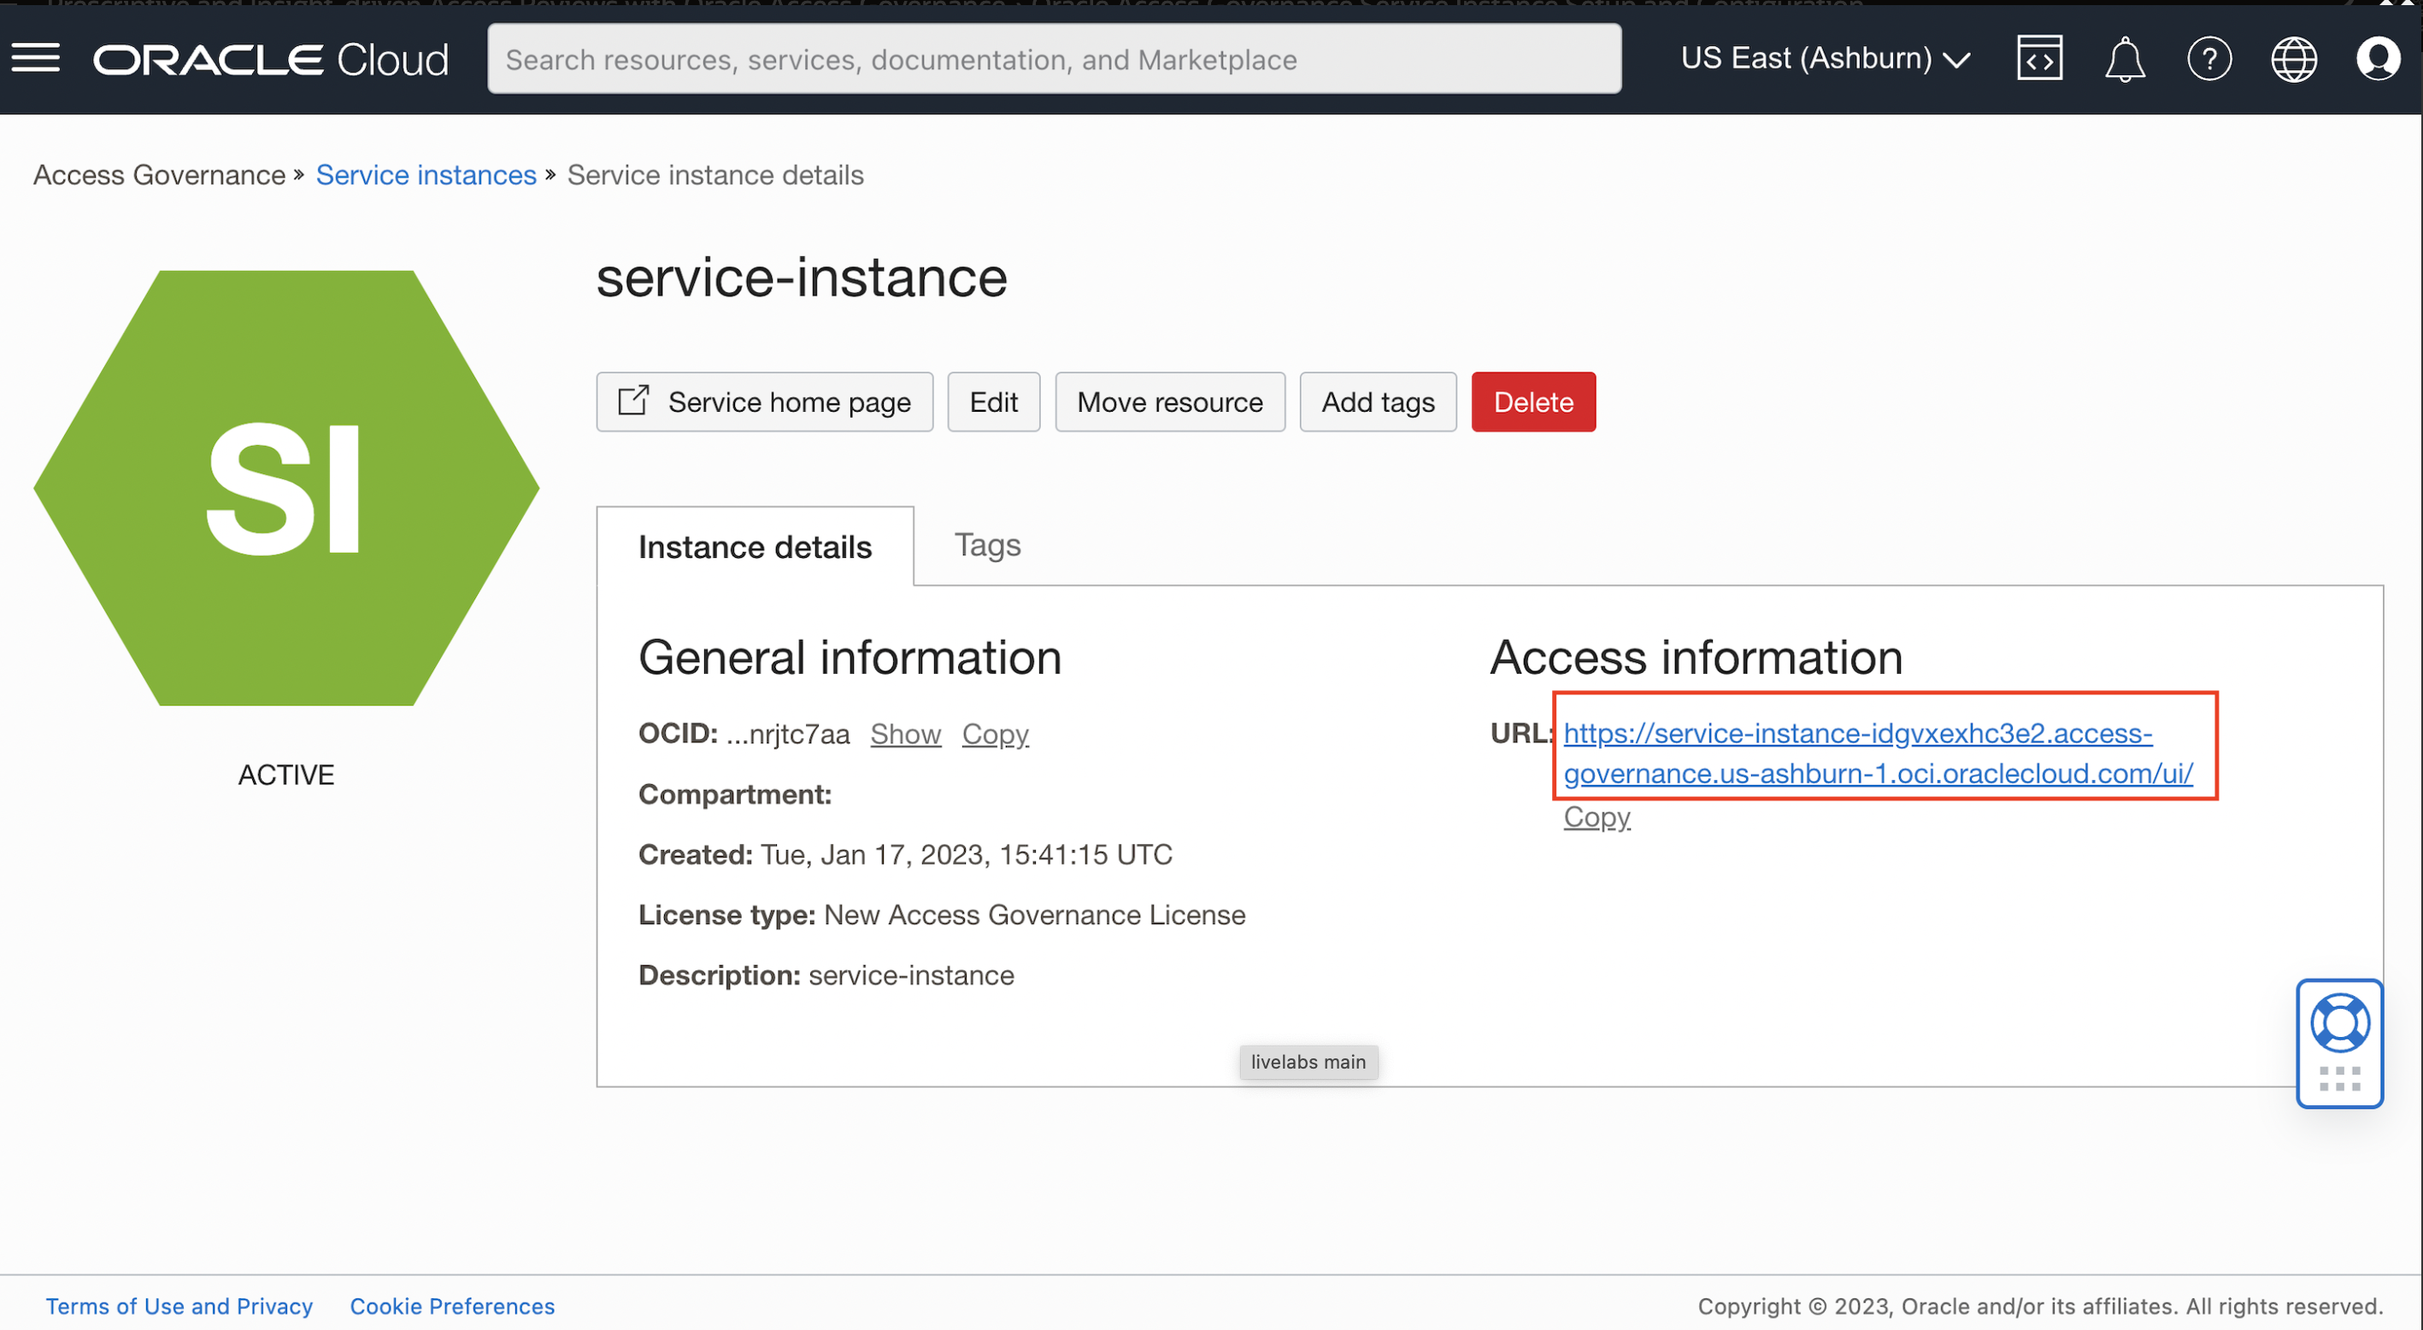
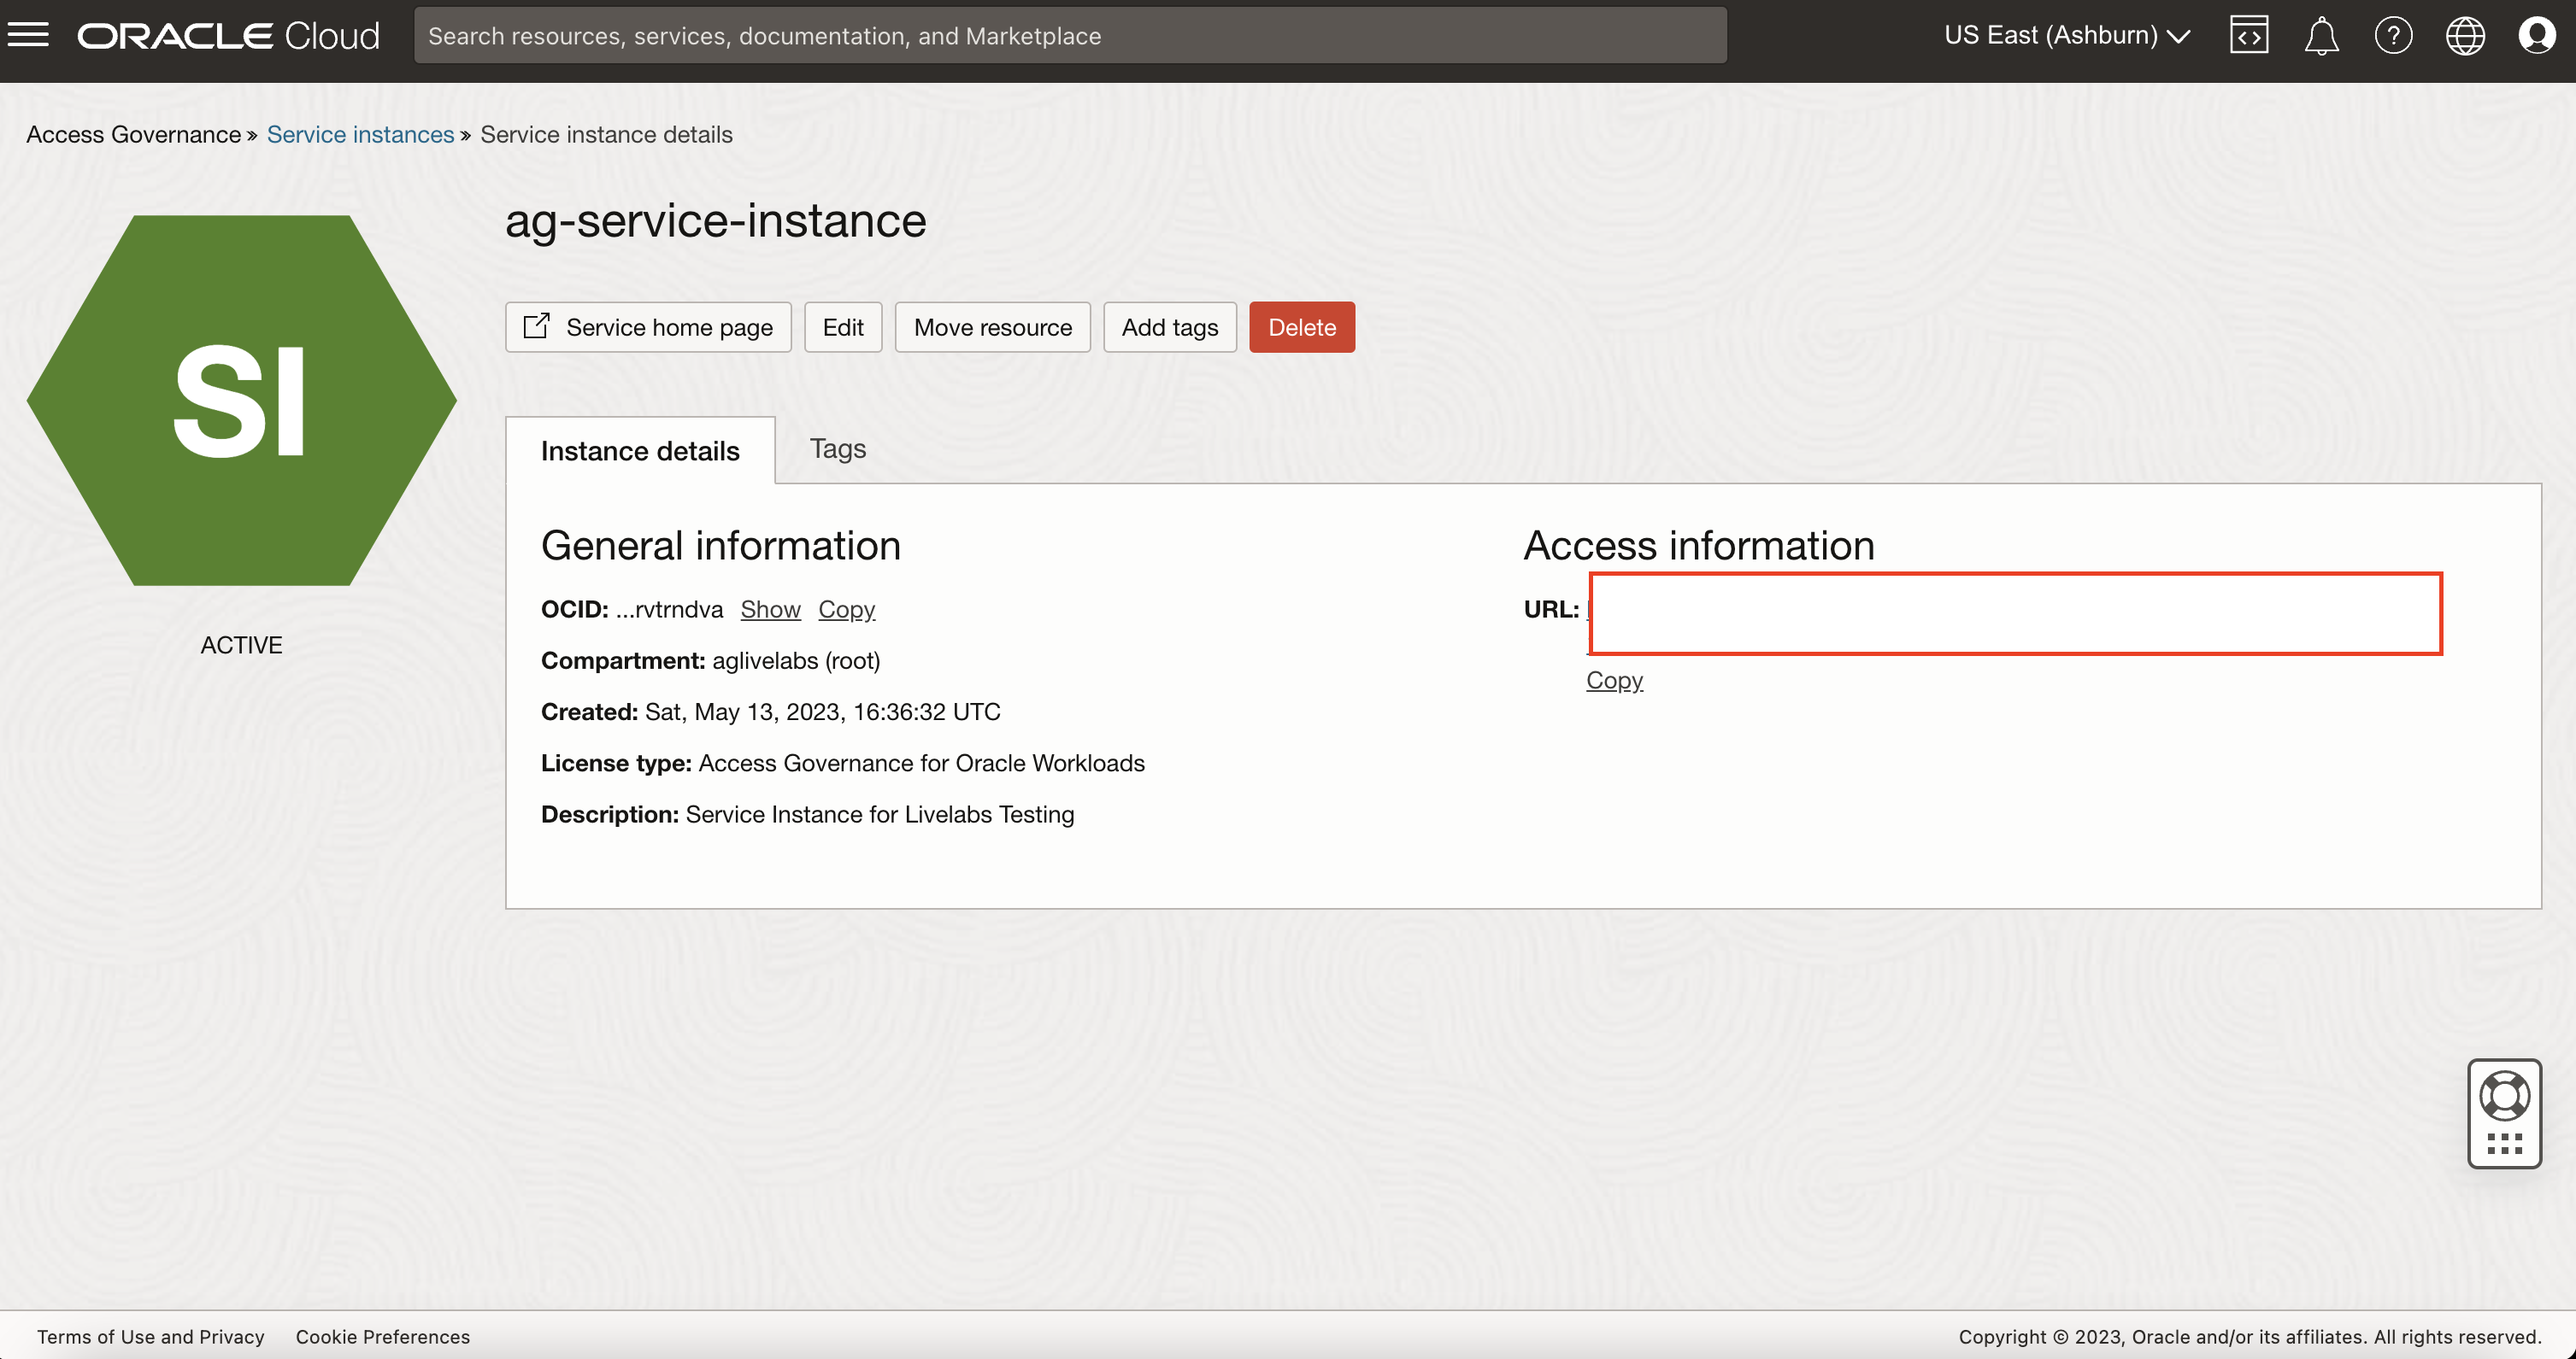
AG workshop

diff --git a/accessgovernancee2e/instance-setup/ag-instance-setup.md b/accessgovernancee2e/instance-setup/ag-instance-setup.md
@@ -25,16 +25,20 @@ This lab assumes you have:
 1. In the OCI console, click the Navigation Menu icon in the top left corner to display the *Navigation menu.* Click *Identity and Security* in the *Navigation menu*. Select *Access Governance* from the list of products.
     ![Create Service Instance](images/oci-console.png)
 
-3. On the Access Governance page, select *Service Instances.*Click on *Create Service Instance*
+2. On the Access Governance page, select *Service Instances.*
 
 
     ```
-    Name: service-instance
+    Name: ag-service-instance
     Description: Oracle Access Governance service instance
     Compartment: Ensure your root compartment is selected
     ```
     ![Create Service Instance](images/create-service-instance.png)
-    ![Service Instance details](images/ag-service-instance.png)
+    
+
+3. Select the License type : Access Governance for Oracle Workloads. Click on *Create Service Instance*
+
+    ![Select License type](images/license-type.png)
 
 4. Wait for the service instance to have the *Active* status . Note down this URL as we will be using it in the further labs. 
 

diff --git a/accessgovernancee2e/create-policies/create-policies.md b/accessgovernancee2e/create-policies/create-policies.md
@@ -45,17 +45,26 @@ In this lab, you will:
 
   ![Click Next](images/click-next.png)
 
+6. Under Configure variables, enter the domain url. 
 
-6. Select Run Apply and click Create.
+  ![Configure Variables](images/configure-variables.png)
 
-  ![Click Run Apply](images/click-run-apply.png)
+  To obtain the domain url, navigate to Identity -> Domains -> ag-domain
 
+  ![Obtain the domain url](images/domain-url.png)
 
+7. Click Create.
 
+  ![Click Create](images/stack-created.png)
 
-7. Your stack has now been created and the Apply action triggered is running to deploy your environment!
 
   ![Policy stack created](images/policy-stack-created.png)
+
+8. Click on Plan. Once the job has succeeded , click on Apply.
+
+  ![Policy stack Plan and Apply](images/plan-apply.png)
+
+9. Your stack has now been created and the Apply action triggered is running to deploy your environment
 
 
   You may now **proceed to the next lab**. 
